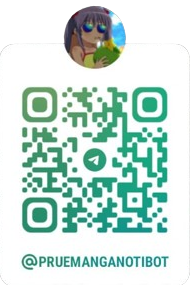
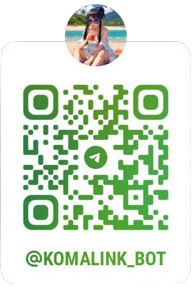
new qr and new btn facebook

diff --git a/index.html b/index.html
@@ -50,6 +50,24 @@
         .btn-custom i {
             margin-right: 8px;
         }
+        .btn-facebook {
+            background-color: #3b5998;
+            color: white;
+            border: none;
+            padding: 10px 20px;
+            font-size: 16px;
+            display: flex;
+            align-items: center;
+            justify-content: center;
+            margin-top: 10px;
+        }
+        .btn-facebook:hover {
+            background-color: #2d4373;
+            color: white;
+        }
+        .btn-facebook i {
+            margin-right: 8px;
+        }
         footer {
             margin-top: 20px;
             font-size: 14px;
@@ -63,8 +81,12 @@
         <!-- Imagen QR -->
         <img src="./src/qr-sin-f.png" alt="QR Code" class="qr-img">
         <!-- Botón para redirigir al BOT de Telegram con ícono -->
-        <a href="https://t.me/prueMangaNotiBot" class="btn btn-custom" target="_blank">
+        <a href="https://t.me/KomaLink_bot" class="btn btn-custom" target="_blank">
             <i class="fab fa-telegram-plane"></i>  Ir al BOT
+        </a>
+        <!-- Botón para redirigir a la página de Facebook con ícono -->
+        <a href="https://www.facebook.com/profile.php?id=61564893191118" class="btn btn-facebook" target="_blank">
+            <i class="fab fa-facebook-f"></i> Visítanos en Facebook
         </a>
         <!-- Footer -->
         <footer>
